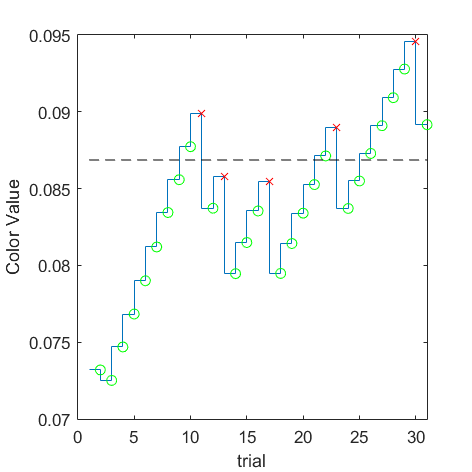
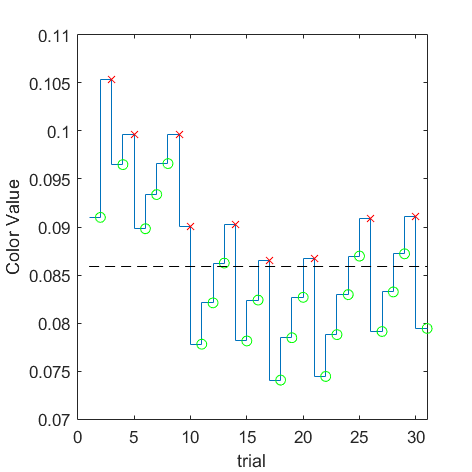
2023-12-23

diff --git a/psychometric_fit_matlab/fit_psych_Quest_color.m b/psychometric_fit_matlab/fit_psych_Quest_color.m
@@ -6,10 +6,10 @@
 % D_thr_table = dataset2table(D_thr);
 % writetable(D_thr_table, '..\VRR_subjective_Quest\Result_Quest_2\Observer_Yancheng_Cai_Test_10\reorder_result_no16_D_thr_result.csv', 'Delimiter', ',');
 
-ds = dataset('File','..\VRR_subjective_Quest\Result_Quest_2\Observer_Yancheng_Cai_Test_10/reorder_result_no16.csv','Delimiter',',');
+ds = dataset('File','..\VRR_subjective_Quest\Result_Quest_4\Observer_Yancheng_Cai_2/reorder_result.csv','Delimiter',',');
 options = { 'psych_func', @pf_dec_lin, 'intensity_label', 'Color Value', 'intensity_scale', 'linear', ...
             'intensity_range', [0.,0.2,], 'bootstrap_samples', 0, 'target_p', 0.75, ...
-            'report_file',  './report/Result_Quest_2_reorder_result_no16.html'};
+            'report_file',  '..\VRR_subjective_Quest\Result_Quest_4\Observer_Yancheng_Cai_2/report/reorder_result_D_thr.html'};
 D_thr = fit_psych_func( ds, { 'VRR_Frequency', 'Size_Degree'}, 'Threshold_Color_Value', 'Response', 260, 0.5, options );
 D_thr_table = dataset2table(D_thr);
-writetable(D_thr_table, '..\VRR_subjective_Quest\Result_Quest_2\Observer_Yancheng_Cai_Test_10\reorder_result_no16_D_thr_result.csv', 'Delimiter', ',');
+writetable(D_thr_table, '..\VRR_subjective_Quest\Result_Quest_2\Observer_Yancheng_Cai_Test_10\reorder_result_D_thr.csv', 'Delimiter', ',');

diff --git a/stelaCSF_matlab/Subjective_Experiment_Result.m b/stelaCSF_matlab/Subjective_Experiment_Result.m
@@ -1,4 +1,4 @@
-size_indices = [1, 16, -1]; %-1 means full
+size_indices = [0.5, 1, 16, -1]; %-1 means full
 vrr_f_indices = [0.5, 1, 2, 4, 8];
 num_obs = 1;
 num_points = 1000;
